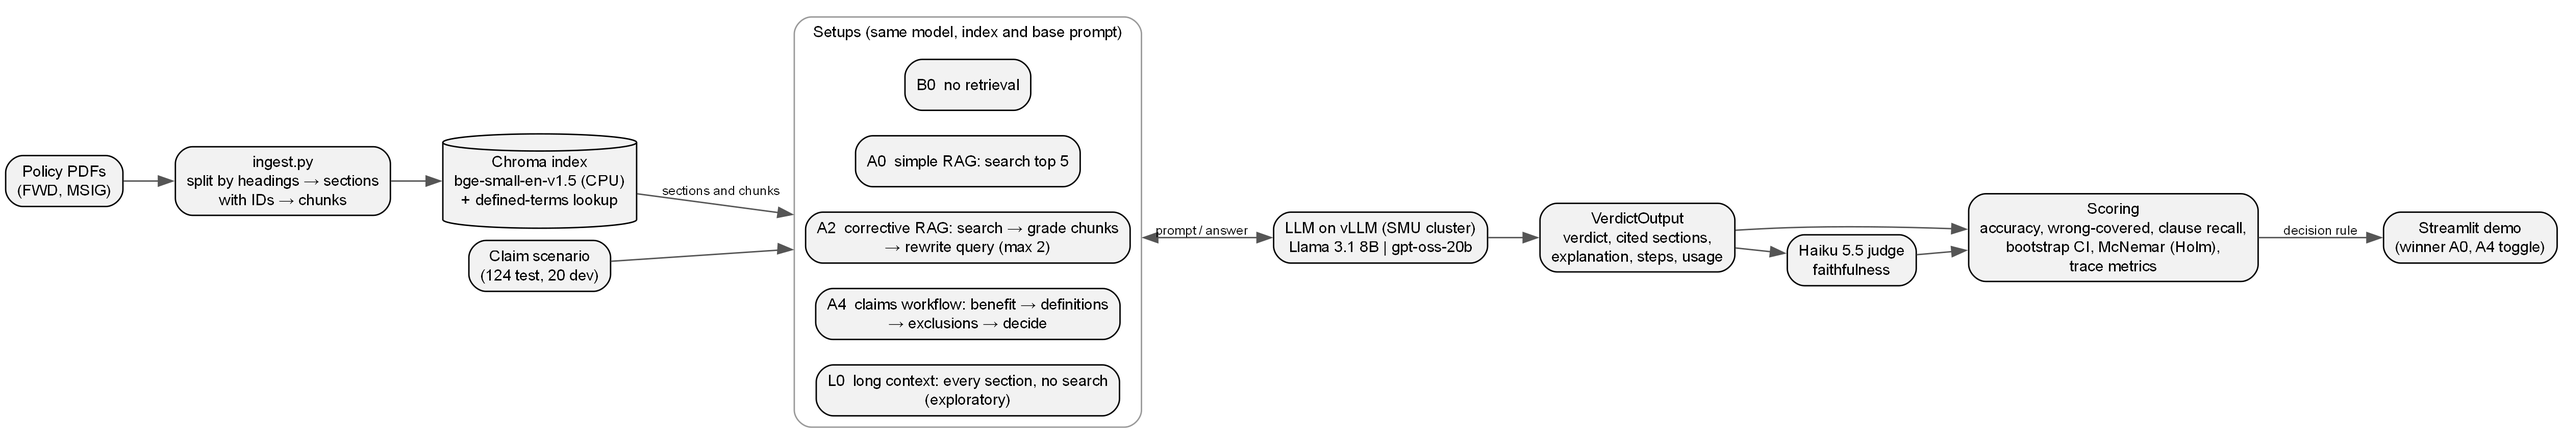
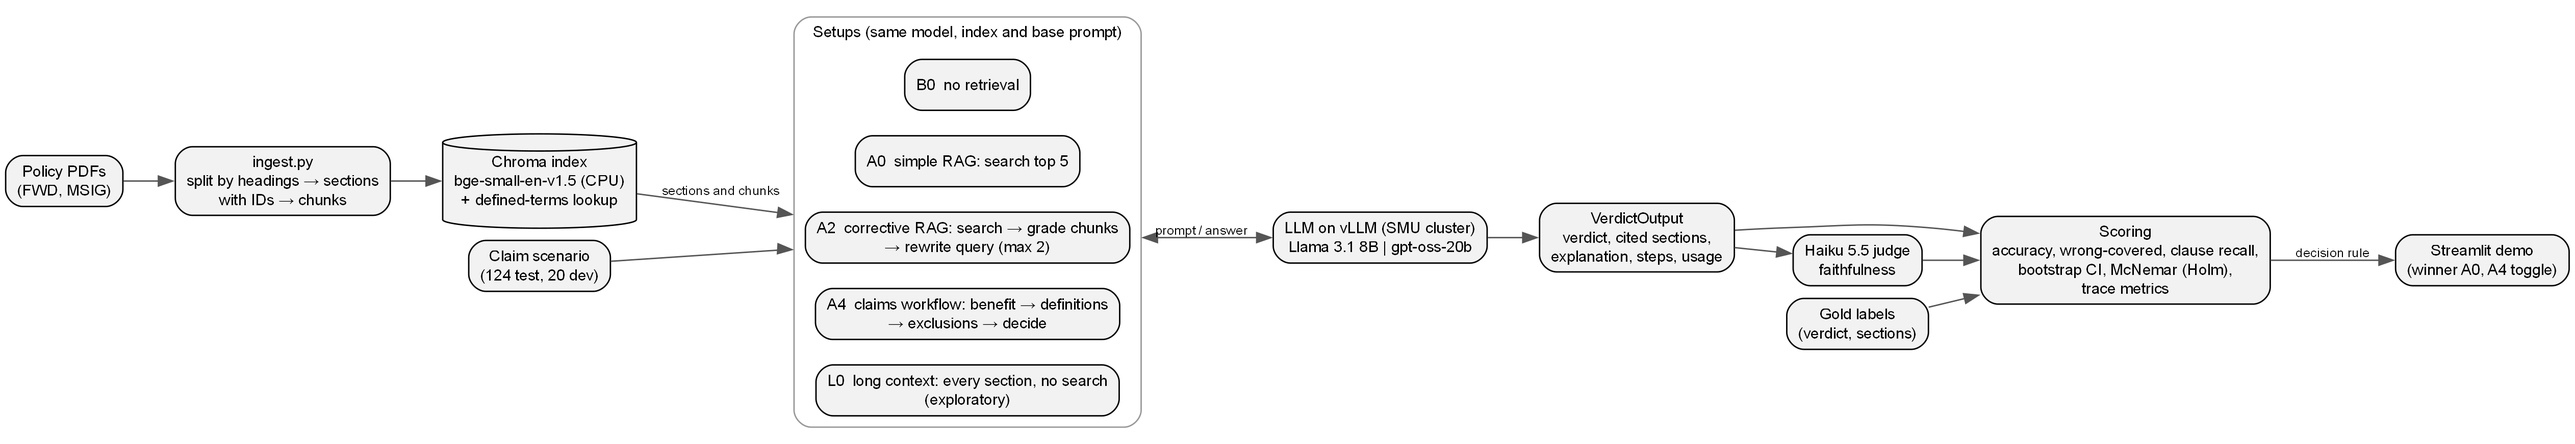
related work: L0 fits Li et al. only, lost-in-middle untestable; diagram: gold labels box, direct VerdictOutput→Scoring in 16:9

diff --git a/docs/RELATED_WORK_SECTION.md b/docs/RELATED_WORK_SECTION.md
@@ -25,11 +25,12 @@ Our A4 takes the opposite approach: a fixed LangGraph workflow that follows how 
 (benefit, then definitions, then exclusions, then a decision). The domain knowledge sits in the graph, not in the
 model's choices.
 
-**Long context instead of retrieval.** Models with long context windows can read a whole document, and on small
-corpora this can match or beat RAG at a higher token cost (Li et al., 2024). Models also use information in the
-middle of a long prompt less well than information at the start or end (Liu et al., 2024). Our exploratory L0 shows
-both effects. With the whole policy (28k to 45k tokens) in the prompt, gpt-oss-20b had the best accuracy of any run
-(0.76), and Llama 3.1 8B fell to 0.32.
+**Long context instead of retrieval.** Models with long context windows can read a whole document. Li et al. (2024) find that long context can beat RAG
+when enough resources are available, while RAG costs far less. Models also use information in the middle of a long
+prompt less well than information at the start or end (Liu et al., 2024). Our exploratory L0 fits the first finding:
+with the whole policy (28k to 45k tokens) in the prompt, gpt-oss-20b had the best accuracy of any run (0.76) at
+5 to 6 times the tokens of A4, while Llama 3.1 8B fell to 0.32, mostly by answering insufficient_info (79 of 124 claims).
+We could not test the second finding, because where a clause sits and the claim category go together.
 
 **LLM as judge.** Strong LLMs can grade open-ended answers with agreement close to human raters, with known biases
 such as favouring their own outputs (Zheng et al., 2023). We use Claude Haiku 5.5 to judge whether each explanation
